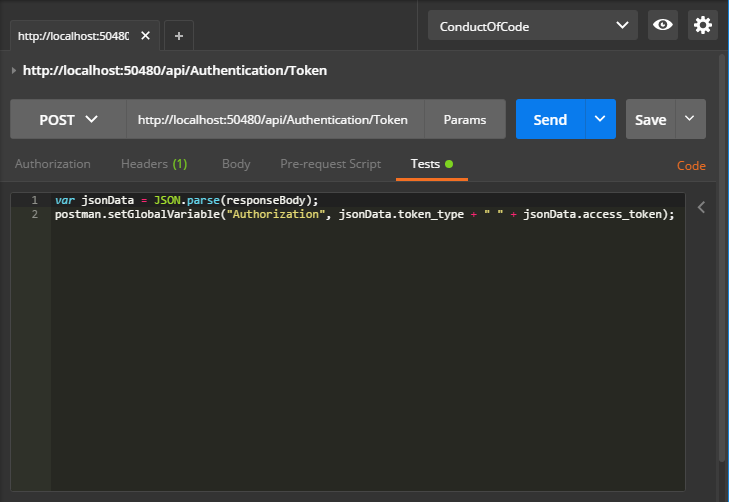
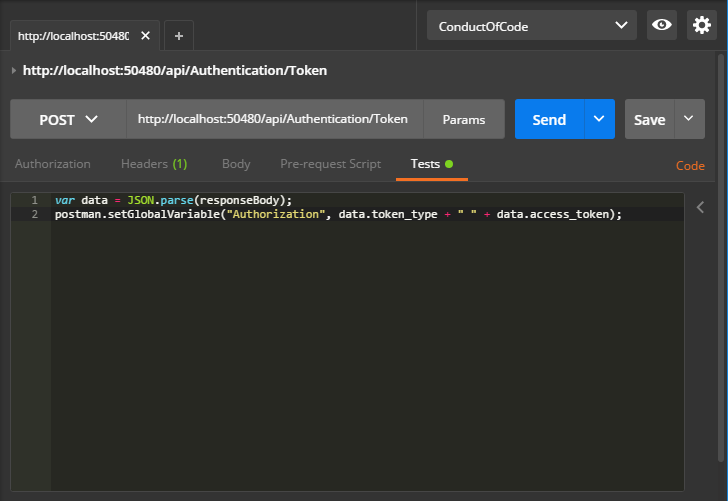
updated Secure and explore ASP.NET Core Web APIs

diff --git a/_posts/2017-03-31-secure-and-explore-aspnet-core-web-apis.md b/_posts/2017-03-31-secure-and-explore-aspnet-core-web-apis.md
@@ -2,6 +2,7 @@
 layout: post
 title: Secure and explore ASP.NET Core Web APIs
 date: 2017-03-31 21:00:00
+update: 2017-04-01 20:00:00
 tags:
  - JWT
  - Swagger
@@ -52,11 +53,11 @@ The `TokenOptions` class is the type safe representation of the configuration in
 
 {% gist hlaueriksson/0144c69bb6c78a8ecb8a8874a7aa1a29 TokenOptions.cs %}
 
-* The `Type` default to `Bearer`, which is the schema used by JWT.
+* The `Type` defaults to `Bearer`, which is the schema used by JWT.
 
 * The expiration of the tokens defaults to one hour.
 
-The `TokenOptions` will be used used in two places in the codebase. Therefor I have placed some convenience methods in `TokenOptionsExtensions`:
+The `TokenOptions` will be used in two places in the codebase. Therefor I extracted some convenience methods into `TokenOptionsExtensions`:
 
 {% gist hlaueriksson/0144c69bb6c78a8ecb8a8874a7aa1a29 TokenOptionsExtensions.cs %}
 
@@ -76,7 +77,7 @@ ConfigureServices:
 
 * The `AddOptions` method adds services required for using options.
 
-* The `Configure<TokenOptions>` method registers a configuration instance which `TokenOptions` will bind against. The `TokenOptions` from `appsettings.json` will be accessible.
+* The `Configure<TokenOptions>` method registers a configuration instance which `TokenOptions` will bind against. The `TokenOptions` from `appsettings.json` will be accessible and available for dependency injection.
 
 * The `AddSwaggerGen` method registers the Swagger generator.
 
@@ -88,7 +89,7 @@ Configure:
 
 * The `InjectOnCompleteJavaScript` method injects JavaScript to invoke when the Swagger UI has successfully loaded. I will get back to this later.
 
-* The `UseStaticFiles` method enables static file serving. The injected JavaScript for the Swagger UI is served from `wwwroot` folder.
+* The `UseStaticFiles` method enables static file serving. The injected JavaScript for the Swagger UI is served from the `wwwroot` folder.
 
 * The `UseJwtBearerAuthentication` method adds JWT bearer token middleware to the web application pipeline.
 `Audience` and `Issuer` will be used to validate the tokens.
@@ -176,11 +177,11 @@ There are two approaches.
 Inject the script to Swagger UI in `Startup.cs`:
 
 {% highlight cs %}
-            app.UseSwaggerUI(c =>
-            {
-                c.SwaggerEndpoint("/swagger/v1/swagger.json", "ConductOfCode");
-                c.InjectOnCompleteJavaScript("/swagger-ui/authorization1.js");
-            });
+app.UseSwaggerUI(c =>
+{
+    c.SwaggerEndpoint("/swagger/v1/swagger.json", "ConductOfCode");
+    c.InjectOnCompleteJavaScript("/swagger-ui/authorization1.js");
+});
 {% endhighlight %}
 
 The result looks like this:
@@ -188,6 +189,8 @@ The result looks like this:
 ![authorization1.js](swagger-ui-authorization1.png)
 
 * Enter a username and password, click the *Get token* button to set the authorization header
+
+* The *Get token* button only needs to be clicked once per page load
 
 ### authorization2.js
 
@@ -204,12 +207,12 @@ The result looks like this:
 Inject the scripts to Swagger UI in `Startup.cs`:
 
 {% highlight cs %}
-            app.UseSwaggerUI(c =>
-            {
-                c.SwaggerEndpoint("/swagger/v1/swagger.json", "ConductOfCode");
-                c.InjectOnCompleteJavaScript("https://cdnjs.cloudflare.com/ajax/libs/crypto-js/3.1.9-1/crypto-js.min.js"); // https://cdnjs.com/libraries/crypto-js
-                c.InjectOnCompleteJavaScript("/swagger-ui/authorization2.js");
-            });
+app.UseSwaggerUI(c =>
+{
+    c.SwaggerEndpoint("/swagger/v1/swagger.json", "ConductOfCode");
+    c.InjectOnCompleteJavaScript("https://cdnjs.cloudflare.com/ajax/libs/crypto-js/3.1.9-1/crypto-js.min.js"); // https://cdnjs.com/libraries/crypto-js
+    c.InjectOnCompleteJavaScript("/swagger-ui/authorization2.js");
+});
 {% endhighlight %}
 
 * The `crypto-js` script is injected from a CDN.
@@ -248,11 +251,13 @@ Add some JavaScript in the **Tests** tab:
 ![Tests](postman-tests.png)
 
 {% highlight js %}
-var jsonData = JSON.parse(responseBody);
-postman.setGlobalVariable("Authorization", jsonData.token_type + " " + jsonData.access_token);
+var data = JSON.parse(responseBody);
+postman.setGlobalVariable("Authorization", data.token_type + " " + data.access_token);
 {% endhighlight %}
 
 * When the response is returned, the access_token is stored in the global variable `Authorization`
+
+* The request to the `Token` action only needs to be sent once per token lifetime (one hour)
 
 Add Authorization to all actions in the **Headers** tab:
 
@@ -304,9 +309,9 @@ authorize();
 
 * The JavaScript is accessed from the global variable `authorize` and evaluated.
 
-* The function `authorize` is executed and the token is generated
+* The function `authorize` is executed and the token is generated.
 
-The `StackController` actions should now return responses with status codes `200`
+The `StackController` actions should now return responses with status codes `200`.
 
 The collection can be exported:
 
